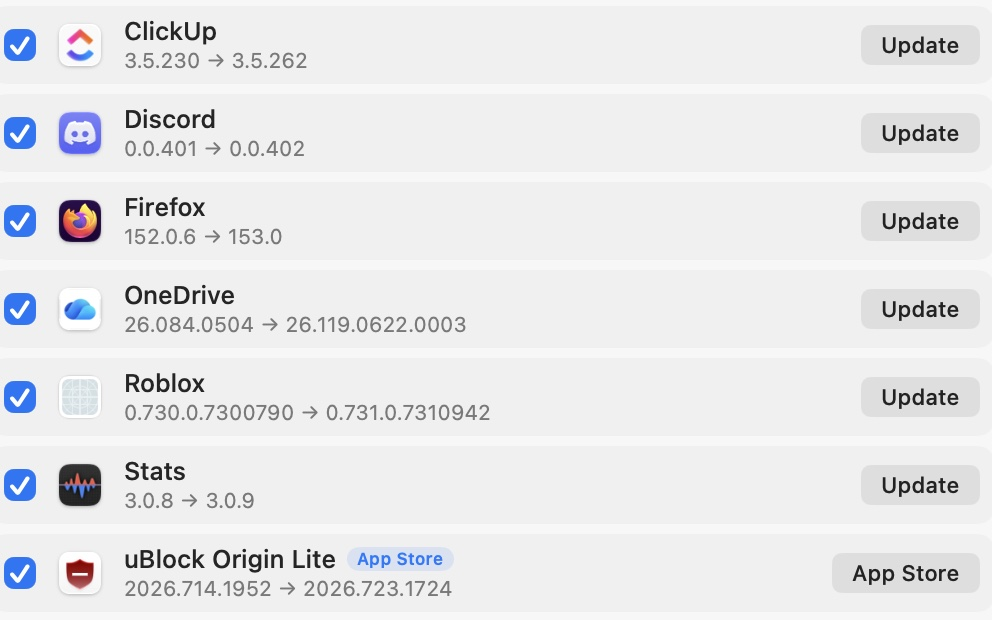
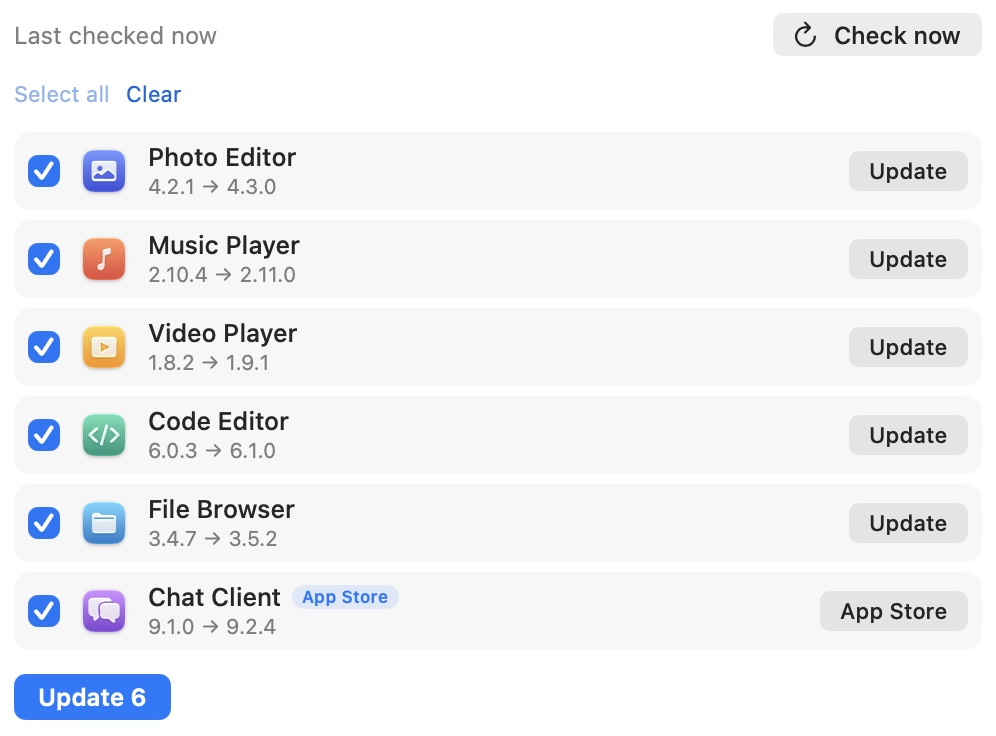
Tour: only what 3.2.0 introduced, and a made up list of apps
Two things the tour got wrong.

The microphone page was not a new feature. Muting every microphone instead
of only the one macOS is set to is a fix to something that shipped in 3.1.15,
and a tour page reads as "this was not here before" to anyone who already had
it. It belongs in the release notes, which already carry it, and nowhere else.
The page, its capture and its caption in thirteen languages are gone.

The app updates page was a real capture of a real Mac, so it carried the
names and the icons of the apps actually installed on it. That is somebody's
private list of software, published to everyone who updates, and it puts
other people's products in front of a screen that is not theirs to be on.
The capture is now made up: six apps named after what they do, with icons
drawn for the shot, so the page shows the feature and nothing else.

diff --git a/Sources/Vorssaint/UI/UpdateHighlightsView.swift b/Sources/Vorssaint/UI/UpdateHighlightsView.swift
@@ -39,7 +39,10 @@ struct UpdateHighlightsView: View {
         let action: () -> Void
     }
 
-    /// The curated pages for the pinned release. Features the user
+    /// The curated pages for the pinned release: only what this version
+    /// introduced. A feature that merely got better is read as new by anyone
+    /// who already had it, so improvements stay in the release notes and the
+    /// tour keeps meaning "this was not here before". Features the user
     /// uninstalled in the hub stay out; their Settings pages are gone too.
     private var highlights: [Highlight] {
         var pages: [Highlight] = []
@@ -80,15 +83,6 @@ struct UpdateHighlightsView: View {
                 caption: AppFeature.mouseButtonShortcuts.hubDescription(hub),
                 actionLabel: s.highlightsConfigure,
                 action: { openSettings(.mouse) }))
-        }
-        if AppFeature.micMute.isAvailable {
-            pages.append(Highlight(
-                id: "micmute", symbol: AppFeature.micMute.symbolName,
-                imageName: "highlights-micmute",
-                title: AppFeature.micMute.hubTitle(s, hub: hub),
-                caption: s.highlightsCaptionMicMute,
-                actionLabel: s.highlightsConfigure,
-                action: { openSettings(.quickTools) }))
         }
         if AppFeature.superKey.isAvailable {
             pages.append(Highlight(
@@ -233,8 +227,7 @@ struct UpdateHighlightsView: View {
     /// At least one featured item survives in the hub, so the tour has a
     /// page to show. The gate reads this before opening the window.
     static var hasContent: Bool {
-        [AppFeature.commandBar, .appUpdates, .mouseButtonShortcuts, .textSnippets, .superKey,
-         .micMute]
+        [AppFeature.commandBar, .appUpdates, .mouseButtonShortcuts, .textSnippets, .superKey]
             .contains { $0.isAvailable }
     }
 

diff --git a/Sources/Vorssaint/Core/Localization.swift b/Sources/Vorssaint/Core/Localization.swift
@@ -1028,7 +1028,6 @@ struct Strings {
     let highlightsCaptionDockPreview: String
     let highlightsCaptionScreenshot: String
     let highlightsCaptionSnippetLibrary: String
-    let highlightsCaptionMicMute: String
     let highlightsConfigure: String
     let highlightsTry: String
     let highlightsSeeAll: String
@@ -1920,7 +1919,6 @@ extension Strings {
         highlightsCaptionDockPreview: "O Dock Preview agora funciona com a ampliação do Dock ligada",
         highlightsCaptionScreenshot: "A captura de tela ganhou uma lupa de pixels e leitura de QR codes",
         highlightsCaptionSnippetLibrary: "Um menu de snippets com busca digita qualquer snippet direto no cursor",
-        highlightsCaptionMicMute: "O silenciar agora vale para todos os microfones, não só o que o Mac está usando",
         highlightsConfigure: "Configurar",
         highlightsTry: "Experimentar",
         highlightsSeeAll: "Ver todas as mudanças",
@@ -2813,7 +2811,6 @@ extension Strings {
         highlightsCaptionDockPreview: "Dock Preview now works with Dock magnification turned on",
         highlightsCaptionScreenshot: "The screenshot tool gained a pixel loupe and QR code reading",
         highlightsCaptionSnippetLibrary: "A searchable snippet menu types any snippet right at your cursor",
-        highlightsCaptionMicMute: "The mute now covers every microphone, not just the one the Mac is set to",
         highlightsConfigure: "Set up",
         highlightsTry: "Try it",
         highlightsSeeAll: "See all changes",

diff --git a/Sources/Vorssaint/Core/Localizations/Strings+Russian.swift b/Sources/Vorssaint/Core/Localizations/Strings+Russian.swift
@@ -885,7 +885,6 @@ extension Strings {
         highlightsCaptionDockPreview: "Dock Preview теперь работает при включённом увеличении Dock",
         highlightsCaptionScreenshot: "Инструмент снимков экрана получил пиксельную лупу и чтение QR-кодов",
         highlightsCaptionSnippetLibrary: "Меню сниппетов с поиском печатает любой сниппет прямо у курсора",
-        highlightsCaptionMicMute: "Отключение звука теперь работает для всех микрофонов, а не только для выбранного",
         highlightsConfigure: "Настроить",
         highlightsTry: "Попробовать",
         highlightsSeeAll: "Все изменения",

diff --git a/Sources/Vorssaint/Core/Localizations/Strings+Japanese.swift b/Sources/Vorssaint/Core/Localizations/Strings+Japanese.swift
@@ -884,7 +884,6 @@ extension Strings {
         highlightsCaptionDockPreview: "Dock Preview がDockの拡大がオンのままでも動作するようになりました",
         highlightsCaptionScreenshot: "スクリーンショットにピクセルルーペとQRコードの読み取りが加わりました",
         highlightsCaptionSnippetLibrary: "検索できるスニペットメニューがカーソル位置にスニペットを入力します",
-        highlightsCaptionMicMute: "ミュートが設定中のマイクだけでなく、すべてのマイクに効くようになりました",
         highlightsConfigure: "設定する",
         highlightsTry: "試す",
         highlightsSeeAll: "すべての変更を見る",

diff --git a/Sources/Vorssaint/Core/Localizations/Strings+Korean.swift b/Sources/Vorssaint/Core/Localizations/Strings+Korean.swift
@@ -885,7 +885,6 @@ extension Strings {
         highlightsCaptionDockPreview: "Dock Preview가 이제 Dock 확대가 켜져 있어도 작동합니다",
         highlightsCaptionScreenshot: "스크린샷 도구에 픽셀 루페와 QR 코드 읽기가 추가되었습니다",
         highlightsCaptionSnippetLibrary: "검색 가능한 스니펫 메뉴가 커서 위치에 스니펫을 입력합니다",
-        highlightsCaptionMicMute: "음소거가 설정된 마이크뿐 아니라 모든 마이크에 적용됩니다",
         highlightsConfigure: "설정하기",
         highlightsTry: "사용해 보기",
         highlightsSeeAll: "모든 변경 사항 보기",

diff --git a/Sources/Vorssaint/Core/Localizations/Strings+German.swift b/Sources/Vorssaint/Core/Localizations/Strings+German.swift
@@ -884,7 +884,6 @@ extension Strings {
         highlightsCaptionDockPreview: "Dock Preview funktioniert jetzt auch mit eingeschalteter Dock-Vergrößerung",
         highlightsCaptionScreenshot: "Das Bildschirmfoto-Werkzeug hat eine Pixel-Lupe und QR-Code-Erkennung erhalten",
         highlightsCaptionSnippetLibrary: "Ein durchsuchbares Schnipsel-Menü tippt jeden Schnipsel direkt am Cursor",
-        highlightsCaptionMicMute: "Die Stummschaltung gilt jetzt für alle Mikrofone, nicht nur für das eingestellte",
         highlightsConfigure: "Einrichten",
         highlightsTry: "Ausprobieren",
         highlightsSeeAll: "Alle Änderungen ansehen",

diff --git a/Sources/Vorssaint/Core/Localizations/Strings+French.swift b/Sources/Vorssaint/Core/Localizations/Strings+French.swift
@@ -884,7 +884,6 @@ extension Strings {
         highlightsCaptionDockPreview: "Dock Preview fonctionne désormais avec l'agrandissement du Dock activé",
         highlightsCaptionScreenshot: "L'outil de capture d'écran gagne une loupe de pixels et la lecture des codes QR",
         highlightsCaptionSnippetLibrary: "Un menu d'extraits avec recherche tape n'importe quel extrait au curseur",
-        highlightsCaptionMicMute: "La coupure vaut maintenant pour tous les micros, pas seulement celui du Mac",
         highlightsConfigure: "Configurer",
         highlightsTry: "Essayer",
         highlightsSeeAll: "Voir tous les changements",

diff --git a/Sources/Vorssaint/Core/Localizations/Strings+Spanish.swift b/Sources/Vorssaint/Core/Localizations/Strings+Spanish.swift
@@ -884,7 +884,6 @@ extension Strings {
         highlightsCaptionDockPreview: "Dock Preview ahora funciona con la ampliación del Dock activada",
         highlightsCaptionScreenshot: "La captura de pantalla ganó una lupa de píxeles y lectura de códigos QR",
         highlightsCaptionSnippetLibrary: "Un menú de fragmentos con búsqueda escribe cualquier fragmento en el cursor",
-        highlightsCaptionMicMute: "El silencio ahora cubre todos los micrófonos, no solo el que usa el Mac",
         highlightsConfigure: "Configurar",
         highlightsTry: "Probar",
         highlightsSeeAll: "Ver todos los cambios",

diff --git a/Sources/Vorssaint/Core/Localizations/Strings+Turkish.swift b/Sources/Vorssaint/Core/Localizations/Strings+Turkish.swift
@@ -884,7 +884,6 @@ extension Strings {
         highlightsCaptionDockPreview: "Dock Preview artık Dock büyütme açıkken de çalışıyor",
         highlightsCaptionScreenshot: "Ekran görüntüsü aracına piksel büyüteci ve QR kod okuma eklendi",
         highlightsCaptionSnippetLibrary: "Aranabilir parçacık menüsü istediğiniz parçacığı imlece yazar",
-        highlightsCaptionMicMute: "Sessize alma artık yalnızca seçili mikrofonu değil, tüm mikrofonları kapsıyor",
         highlightsConfigure: "Ayarla",
         highlightsTry: "Dene",
         highlightsSeeAll: "Tüm değişiklikleri gör",

diff --git a/Sources/Vorssaint/Core/Localizations/Strings+Italian.swift b/Sources/Vorssaint/Core/Localizations/Strings+Italian.swift
@@ -884,7 +884,6 @@ extension Strings {
         highlightsCaptionDockPreview: "Dock Preview ora funziona con l'ingrandimento del Dock attivo",
         highlightsCaptionScreenshot: "Lo screenshot ha guadagnato una lente dei pixel e la lettura dei codici QR",
         highlightsCaptionSnippetLibrary: "Un menu di snippet con ricerca digita qualsiasi snippet al cursore",
-        highlightsCaptionMicMute: "Il silenzio ora vale per tutti i microfoni, non solo per quello impostato",
         highlightsConfigure: "Configura",
         highlightsTry: "Prova",
         highlightsSeeAll: "Vedi tutte le modifiche",

diff --git a/Tests/MetricsTests.swift b/Tests/MetricsTests.swift
@@ -6085,7 +6085,6 @@ struct MetricsTests {
             let highlightsStrings = [strings.highlightsTitle, strings.highlightsCaptionDockPreview,
                                      strings.highlightsCaptionScreenshot,
                                      strings.highlightsCaptionSnippetLibrary,
-                                     strings.highlightsCaptionMicMute,
                                      strings.highlightsConfigure,
                                      strings.highlightsTry, strings.highlightsSeeAll]
             expect(highlightsStrings.allSatisfy { !$0.isEmpty && !$0.contains("—") },

diff --git a/Sources/Vorssaint/Core/Localizations/Strings+ChineseSimplified.swift b/Sources/Vorssaint/Core/Localizations/Strings+ChineseSimplified.swift
@@ -884,7 +884,6 @@ extension Strings {
         highlightsCaptionDockPreview: "Dock Preview 现在可以在开启 Dock 放大时使用",
         highlightsCaptionScreenshot: "截图工具新增了像素放大镜和二维码读取",
         highlightsCaptionSnippetLibrary: "可搜索的片段菜单把任意片段直接输入到光标处",
-        highlightsCaptionMicMute: "静音现在对所有麦克风生效，不只是系统选中的那个",
         highlightsConfigure: "设置",
         highlightsTry: "试一试",
         highlightsSeeAll: "查看全部更改",
